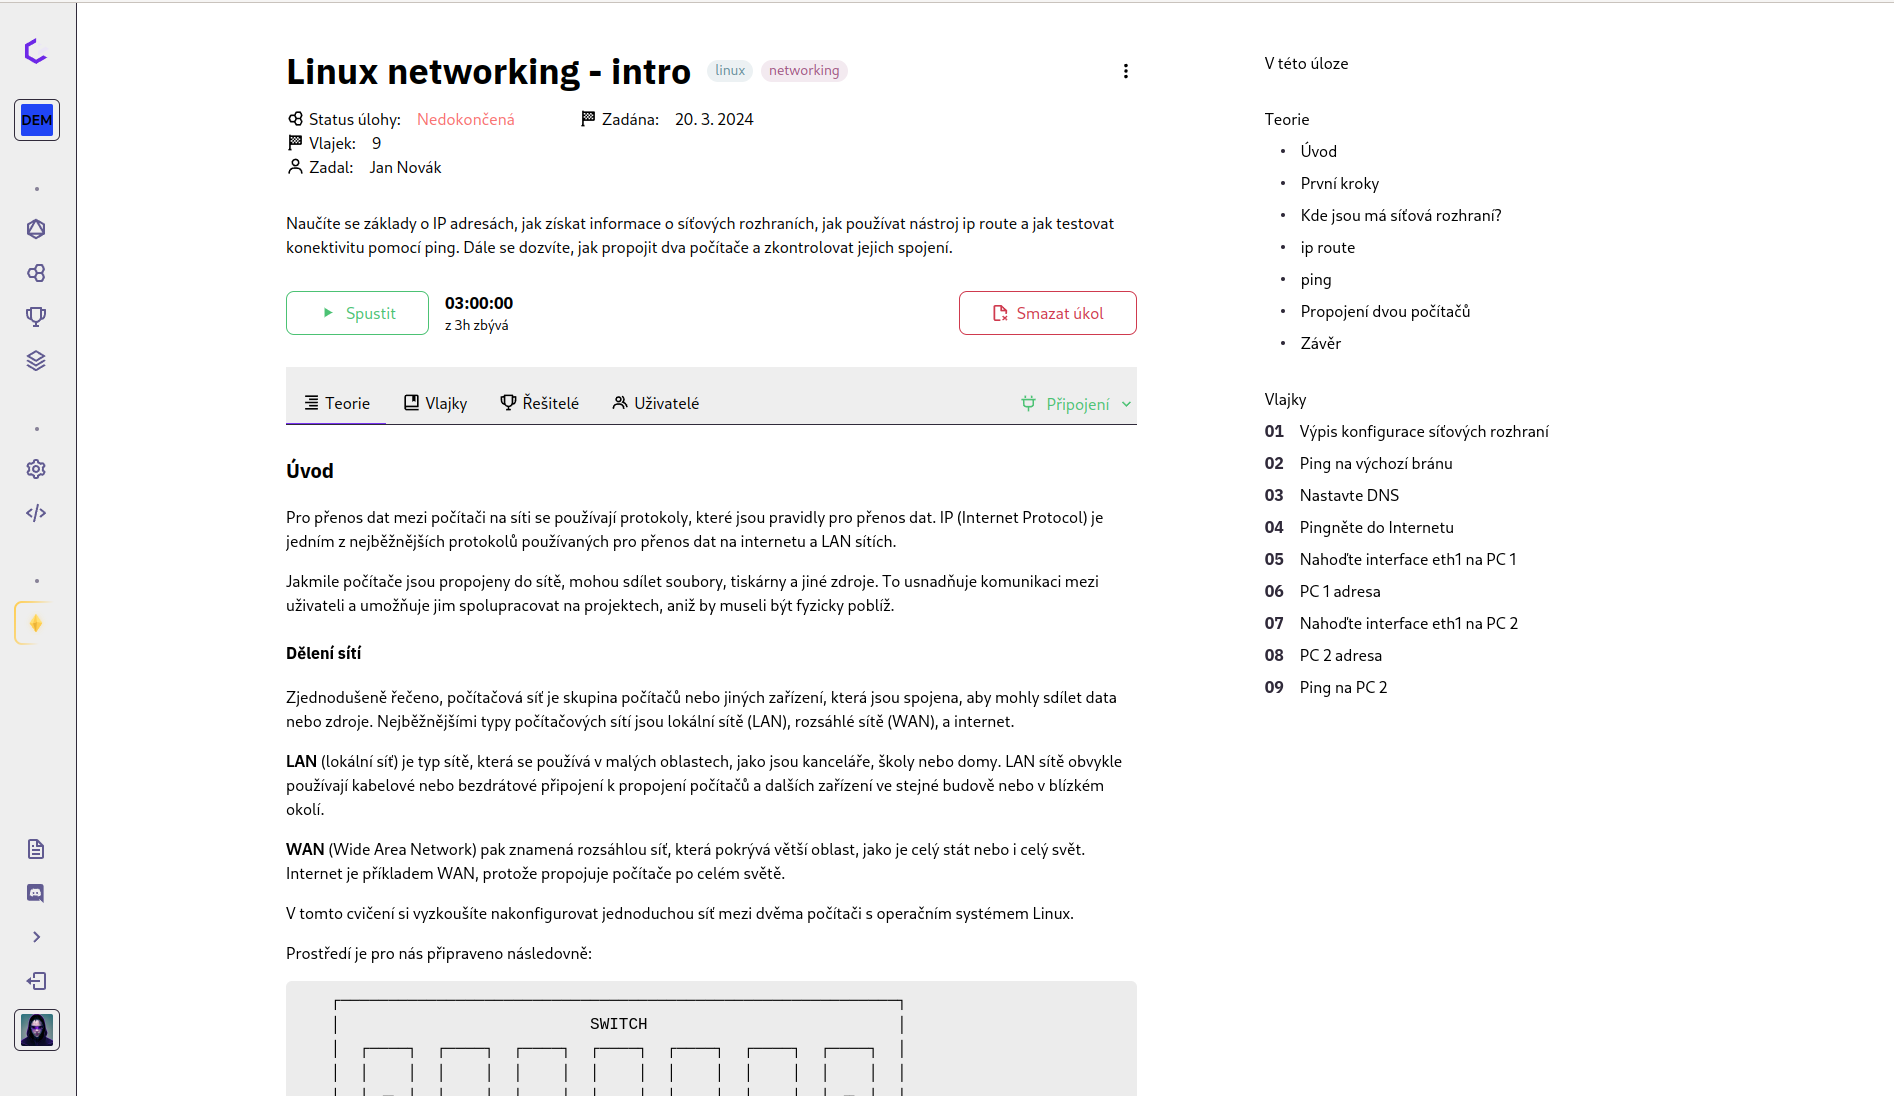
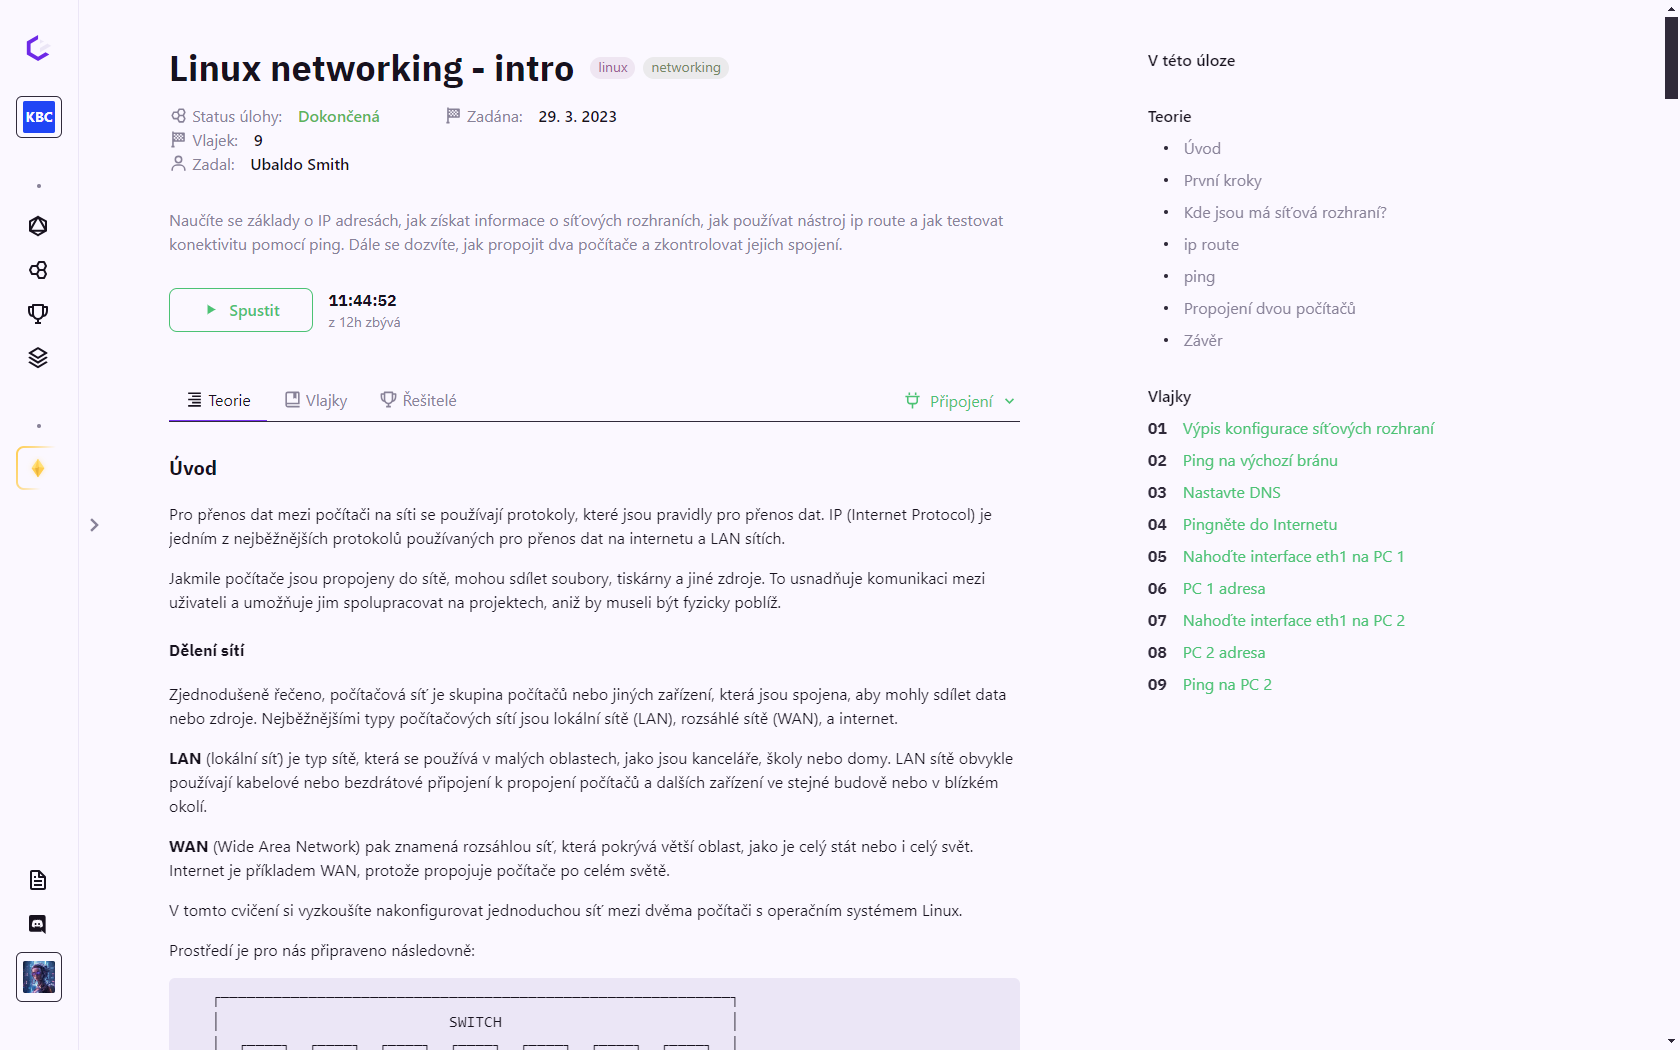
feat: new white mode

diff --git a/teachers/white-mode/index.md b/teachers/white-mode/index.md
@@ -1,67 +1,16 @@
-# Nastavení světlého módu pomocí rozšíření prohlížeče
+# Nastavení světlého módu
 
-## Chrome/Chromium
+Jelikož může být běžné zobrazení stránky HAXAGON nečitelné na některých projektorech, existuje možnost přepnout rozhraní do bílého módu.
 
-Ačkoli na světlém módu již pracujeme, tak jako dočasné řešení nabízíme zesvětlení pomocí přepsání CSS. K tomu lze použít rozšíření do Chrome/Chromium prohlížeče https://chromewebstore.google.com/detail/user-javascript-and-css/nbhcbdghjpllgmfilhnhkllmkecfmpld.
-Rozšíření nainstalujte, přejděte na haxagon.xyz a v horním panelu klikněte na ikonku rošíření a následně na znaménko +:
+Tato možnost zvýší kontrast textu v popiscích úloh (pozadí na bílo, text na černo).
 
-![extension icon](./extension-icon.png)
+Světlý mód je možné zapnout v uživatelských nastaveních, které otevřete kliknutím na své jméno a profilový obrázek v levém dolním rohu a vybráním možnosti "Nastavení".  
+Ve spodní části nastavení se nachází možnost "Mód zobrazení", kde pro světlý režim vyberte "Projektor".
 
-Otevře se editor JS a CSS. Zde je důležité zkontrolovat, že v horní části je adresa https://haxagon.xyz/.
+![](./white-mode.png)
 
-![extension icon](./extension-editor.png)
+::: info Poznámka
+Světlý mód není doporučený pro běžné používání na počítačích, obsahuje totiž velmi kontrastní barvy, které mohou být nepříjemné pro běžné čtení. Také s ním není primárně počítáno při grafickém návrhu jednotlivých prvků a stránka obecně vypadá vzhledněji v tmavém režimu.
 
-Do pravé části editoru s popiskem "Start typing SCSS or CSS here" vložte následující CSS kód:
-
-
-```css
-#layout {
-    background-color: #fff;
-}
-
-.bg-grey-dark {
-    background-color: #eee;
-}
-
-.text-grey-light {
-    color: #615b91 !important;
-}
-
-.markdown code {
-    background-color: #ececec !important;
-    color: #4c348e !important;
-}
-
-.markdown table {
-    background-color: #fff !important;
-}
-
-body,
-.text-grey,
-.markdown pre > code,
-.markdown,
-.markdown strong,
-.markdown h1,
-.markdown h2,
-.markdown h3,
-.markdown h4,
-.markdown h5,
-.markdown h6,
-.markdown h1 > a,
-.markdown h2 > a,
-.markdown h3 > a,
-.markdown h4 > a,
-.markdown h5 > a,
-.markdown h6 > a {
-    color: #000 !important;
-}
-```
-
-Poté klikněte na tlačítko "Save".
-
-![extension icon](./extension-save.png)
-
-Pak už stačí refrehnout haxagon a stránka by měla být ve světlém módu.
-
-
-![extension icon](./white-mode.png)
+Světlý mód je určen hlavně pro projektory.
+:::
